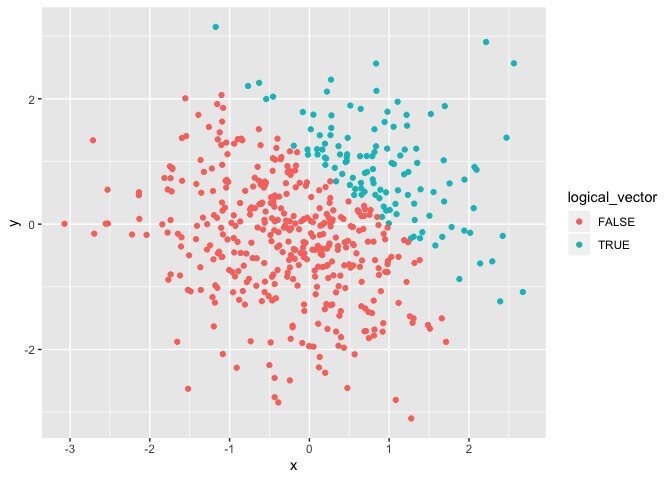
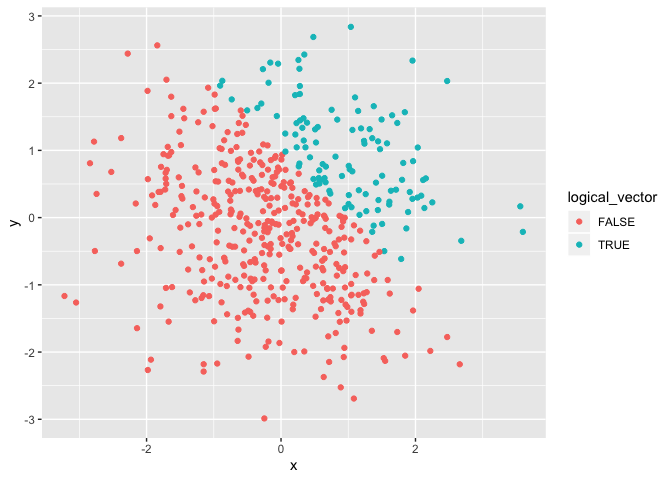
Finalizing the format for .rmd file

diff --git a/p8105_hw1_jl5295.md b/p8105_hw1_jl5295.md
@@ -1,23 +1,22 @@
-Homework 1 JL5295
+p8105\_hw1\_JL5295
 ================
 Jana Lee
 9/17/2019
 
-**Problem
-    1**
+# **Problem 1**
 
 ``` r
 library (tidyverse)
 ```
 
-    ## ── Attaching packages ────────────────────────────────────────────────────── tidyverse 1.2.1 ──
+    ## ── Attaching packages ──────────────────────────────────────────────────────────────────────── tidyverse 1.2.1 ──
 
     ## ✔ ggplot2 3.2.1     ✔ purrr   0.3.2
     ## ✔ tibble  2.1.3     ✔ dplyr   0.8.3
     ## ✔ tidyr   1.0.0     ✔ stringr 1.4.0
     ## ✔ readr   1.3.1     ✔ forcats 0.4.0
 
-    ## ── Conflicts ───────────────────────────────────────────────────────── tidyverse_conflicts() ──
+    ## ── Conflicts ─────────────────────────────────────────────────────────────────────────── tidyverse_conflicts() ──
     ## ✖ dplyr::filter() masks stats::filter()
     ## ✖ dplyr::lag()    masks stats::lag()
 
@@ -28,14 +27,10 @@ problem1_df = tibble(
   char_vector = c("Help", "am", "I", "doing", "this", "correctly", "ahh", "ahh"),
   factor_vector = factor(c("red", "yellow", "blue", "red", "yellow", "blue","red", "red"))
 )
-# Problem 1 asks us to take a deep dive into creating a dataframe. 
-# problem1_df was created and allows us to explore different types of vectors.
 
 mean_sample = mean(pull(problem1_df, sample))
-  # Mean of sample is -0.2224873.
 
 mean_logical_vector = mean(pull(problem1_df, logical_vector))
-  # Mean of logical_vector is 0.5.
 
 mean_char_vector = mean(pull(problem1_df, char_vector))
 ```
@@ -50,14 +45,18 @@ mean_factor_vector = mean(pull(problem1_df, factor_vector))
     ## Warning in mean.default(pull(problem1_df, factor_vector)): argument is not
     ## numeric or logical: returning NA
 
-``` r
-  # Both the mean of char_vector and factor_vector generated a warning message. 
-  # This does explain what is happening when we try to take the mean because 
-  # char_vector and factor_vector are not logical or numerical vectors.
-```
+**Problem 1 Comment** Problem 1 asks us to take a deep dive into
+creating a dataframe. problem1\_df was created and allows us to explore
+different types of vectors.
 
-Second code chunk, with as.numeric
-function.
+Then, we took the mean. The mean of sample is -0.2224873. Mean of
+logical\_vector is 0.5. Both the mean of char\_vector and factor\_vector
+generated a warning message. This does explain what is happening when we
+try to take the mean because char\_vector and factor\_vector are not
+logical or numerical
+vectors.
+
+## Second code chunk, with as.numeric function
 
 ``` r
 # Convert the logical vector to numeric and multiply the random sample by 
@@ -73,7 +72,7 @@ as.factor (pull(problem1_df, logical_vector))*(pull(problem1_df, sample))
 as.numeric (as.factor (pull(problem1_df, logical_vector)))*(pull(problem1_df, sample))
 ```
 
-**Problem 2**
+# **Problem 2**
 
 ``` r
 problem2_df = tibble(
@@ -85,23 +84,40 @@ problem2_df = tibble(
 )
 ```
 
-The dataset has 500 rows and 5 columns. The mean of x is -0.0210897. The
-median of x is -0.0068006. The standard deviation of x is 0.9664705. The
-proportion of cases for which x + y \> 1 is 0.226.
+The dataset has 500 rows and 5 columns. The mean of x is 0.0081834. The
+median of x is -0.0029011. The standard deviation of x is 1.0941979. The
+proportion of cases for which x + y \> 1 is
+0.224.
 
-Scatterplot of y
-vs. x
+## Scatterplots
 
 ``` r
 plota = ggplot(problem2_df, aes(x, y, color = logical_vector)) + geom_point()
-  # There are two colors for the logical_vector scatterplot, one red and one green.
-
-plotb = ggplot(problem2_df, aes(x, y, color = numeric_vector)) + geom_point()
-  # There is a gradient of sky blue to dark blue for the numeric_vector scatterplot.
-
-plotc= ggplot(problem2_df, aes(x, y, color = factor_vector)) + geom_point()
-  # There are two colors for the factor_vector, one red and one green.
-
-ggsave("plota.png", height = 4, width = 6)
-  # Saved plota as a PNG file. Confirmed it is in the File Directory.
+plota
 ```
+
+![](p8105_hw1_jl5295_files/figure-gfm/scatterplots-1.png)<!-- -->
+
+``` r
+plotb = ggplot(problem2_df, aes(x, y, color = numeric_vector)) + geom_point()
+plotb
+```
+
+![](p8105_hw1_jl5295_files/figure-gfm/scatterplots-2.png)<!-- -->
+
+``` r
+plotc= ggplot(problem2_df, aes(x, y, color = factor_vector)) + geom_point()
+plotc
+```
+
+![](p8105_hw1_jl5295_files/figure-gfm/scatterplots-3.png)<!-- -->
+
+``` r
+ggsave("plota.png", height = 4, width = 6)
+```
+
+**Scatterplot comment:** There are two colors for the logical\_vector
+scatterplot, one red and one green. There is a gradient of sky blue to
+dark blue for the numeric\_vector scatterplot. There are two colors for
+the factor\_vector, one red and one green. Saved plota as a PNG file.
+Confirmed it is in the File Directory.
